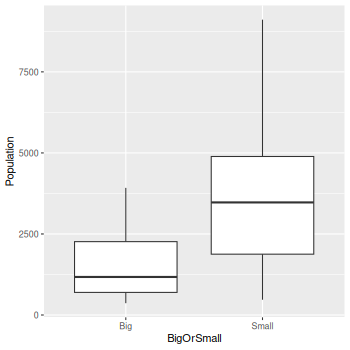
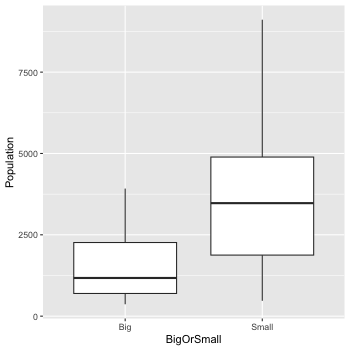
Debugging Shiny Apps.

diff --git a/RIntro/foo.html b/RIntro/foo.html
@@ -1,5 +1,5 @@
-<!-- html table generated in R 4.5.2 by xtable 1.8-4 package -->
-<!-- Thu Jan  8 12:01:18 2026 -->
+<!-- html table generated in R 4.5.2 by xtable 1.8-8 package -->
+<!-- Fri Mar  6 11:27:31 2026 -->
 <table border=1>
 <tr> <th>  </th> <th> region </th> <th> Population_mean </th> <th> Area_mean </th> <th> Population_sd </th> <th> Area_sd </th>  </tr>
   <tr> <td align="right"> 1 </td> <td> Northeast </td> <td align="right"> 5495.11 </td> <td align="right"> 18141.00 </td> <td align="right"> 6079.57 </td> <td align="right"> 18075.69 </td> </tr>
